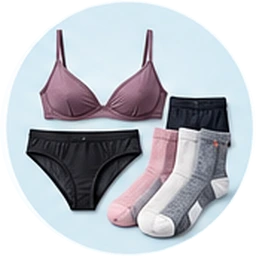
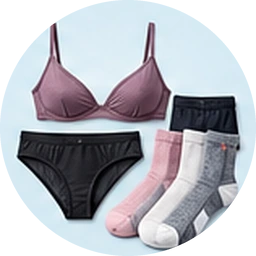
Add files via upload

diff --git a/index.html b/index.html
@@ -8,8 +8,8 @@
 <style>
 :root{--bg:#f7f7f4;--cd:#fff;--tx:#1f3354;--mu:#66738a;--ln:#dfe5ea;--circ:#dce9f1;--ac:#e8731c;--acb:#fdeee0;--ok:#1f8a4c;--wn:#b45309;--wnb:#fef3c7;--bad:#c62828;--pri:#1f3354;--on:#fff}
 @media(prefers-color-scheme:dark){:root{--bg:#0f1620;--cd:#162130;--tx:#eaf0f6;--mu:#9aa8ba;--ln:#263548;--circ:#1f3044;--ac:#f0954a;--acb:#3a2a1c;--ok:#4cc78b;--wn:#f2b24c;--wnb:#3a2f14;--bad:#ff7a73;--pri:#eaf0f6;--on:#0f1620}}
-*{box-sizing:border-box}body{margin:0;font:16px/1.4 -apple-system,system-ui,sans-serif;background:var(--bg);color:var(--tx);padding-top:env(safe-area-inset-top)}
-#app{max-width:640px;margin:auto;padding:12px 16px calc(88px + env(safe-area-inset-bottom))}#app.wide{max-width:960px}
+*{box-sizing:border-box}html,body{height:100%}body{height:100dvh;display:flex;flex-direction:column;overflow:hidden;overscroll-behavior:none}body{margin:0;font:16px/1.4 -apple-system,system-ui,sans-serif;background:var(--bg);color:var(--tx);padding-top:env(safe-area-inset-top)}
+#app{flex:1 1 auto;min-height:0;overflow-y:auto;-webkit-overflow-scrolling:touch;width:100%;max-width:640px;margin:0 auto;padding:12px 16px 24px}#app.wide{max-width:960px}
 h1{font-size:26px;margin:8px 0 14px;display:flex;justify-content:space-between;align-items:center;gap:8px;letter-spacing:-.01em}h1 span{display:flex;gap:8px}
 h3{font-size:12px;color:var(--mu);font-weight:600;margin:20px 0 6px;text-transform:uppercase;letter-spacing:.06em}
 .c{background:var(--cd);border:1px solid var(--ln);border-radius:12px;overflow:hidden}.r{display:flex;gap:10px;align-items:center;padding:12px;border-top:1px solid var(--ln);min-height:48px}.r:first-child{border-top:0}.r>div{flex:1;min-width:0}
@@ -25,7 +25,7 @@ button.l{border:0;background:none;color:var(--ac);padding:0 6px;min-height:36px}
 input,select,textarea{width:100%;padding:11px;border:1px solid var(--ln);border-radius:10px;background:var(--cd);margin:4px 0}textarea{min-height:120px}
 .bar{height:7px;background:var(--ln);border-radius:4px;overflow:hidden;margin:8px 0 4px}.bar i{display:block;height:100%;background:var(--pri)}
 .seg{display:flex;gap:6px;margin:8px 0}.seg button{flex:1}.seg .on{background:var(--acb);border-color:var(--ac);color:var(--ac);font-weight:600}
-.tabs{position:fixed;left:0;right:0;bottom:0;display:flex;background:var(--cd);border-top:1px solid var(--ln);padding-bottom:env(safe-area-inset-bottom)}.tabs a{flex:1;text-align:center;padding:13px 0;color:var(--mu);text-decoration:none;font-size:13px}.tabs a.on{color:var(--ac);font-weight:600}
+.tabs{flex:none;display:flex;background:var(--cd);border-top:1px solid var(--ln);padding-bottom:env(safe-area-inset-bottom)}.tabs a{flex:1;text-align:center;padding:13px 0;color:var(--mu);text-decoration:none;font-size:13px}.tabs a.on{color:var(--ac);font-weight:600}
 .warn{background:var(--wnb);color:var(--wn);padding:9px 12px;border-radius:10px;font-size:14px;margin-bottom:8px}.ft{font-size:12px;color:var(--mu);text-align:center;margin:18px 6px}
 .ck{width:26px;height:26px;border:2px solid var(--mu);border-radius:7px;flex:none;display:flex;align-items:center;justify-content:center}.ck.on{background:var(--ok);border-color:var(--ok);color:#fff}
 .empty{text-align:center;padding:28px 10px;color:var(--mu)}
@@ -37,9 +37,10 @@ input,select,textarea{width:100%;padding:11px;border:1px solid var(--ln);border-
 .back{display:inline-block;color:var(--ac);text-decoration:none;margin:4px 0}
 .sheet{background:#fff;color:#000;border:1px solid var(--ln);padding:22px;border-radius:6px;max-width:210mm;margin:12px auto}.sheet h2{margin:0;font-size:26px;letter-spacing:.04em}.sheet h4{margin:18px 0 6px;font-size:13px;letter-spacing:.12em;border-bottom:1.5px solid #000;padding-bottom:3px}
 .kr{display:flex;gap:10px;align-items:center;padding:5px 0;font-size:15px}.bx{width:15px;height:15px;border:1.6px solid #000;flex:none;display:grid;place-items:center;font-size:12px;line-height:1;font-weight:700}.tot{margin-top:18px;border-top:1.5px solid #000;padding-top:8px;font-size:14px;font-weight:600}.kr em{margin-left:auto;font-style:normal;font-size:11px;letter-spacing:.08em;border:1px solid #000;padding:1px 6px}.kr em.m{background:#000;color:#fff}.kr em.w{border-style:dashed}
-.circ{display:flex;align-items:center;justify-content:center}.em{font-size:clamp(30px,10vw,50px);line-height:1}.ci{display:flex;align-items:center;justify-content:center;background:var(--circ)}.ci .em{font-size:26px}.ci img{width:100%;height:100%;border-radius:50%}.circ{background:none}
+.circ{display:flex;align-items:center;justify-content:center}.em{font-size:clamp(30px,10vw,50px);line-height:1}.ci{display:flex;align-items:center;justify-content:center;background:#d6e9f4}.ci .em{font-size:26px}.ci img{width:100%;height:100%;border-radius:50%}.circ{background:#d6e9f4}
+.seg button .s{font-weight:400;white-space:nowrap}
 .pg{display:none}
-@media print{body{background:#fff;padding:0}.tabs,.noprint{display:none!important}#app{max-width:none;padding:0}.sheet{border:0;padding:0;margin:0;max-width:none}.cat{break-inside:avoid}@page{size:A4;margin:16mm}.pg{display:block;text-align:center;font-size:11px;margin-top:14px}}
+@media print{html,body{height:auto!important;overflow:visible!important;display:block!important}#app{overflow:visible!important}body{background:#fff;padding:0}.tabs,.noprint{display:none!important}#app{max-width:none;padding:0}.sheet{border:0;padding:0;margin:0;max-width:none}.cat{break-inside:avoid}@page{size:A4;margin:16mm}.pg{display:block;text-align:center;font-size:11px;margin-top:14px}}
 </style></head><body><div id="app"></div><nav class="tabs" id="tabs"></nav>
 <script>
 const $=s=>document.querySelector(s),uid=()=>Math.random().toString(36).slice(2,9),now=()=>new Date().toISOString();
@@ -81,7 +82,7 @@ let S=Store.load();const save=()=>Store.save(S);
 const nm=i=>((i.brand?i.brand+' ':'')+i.model).trim();
 
 /* ---------- icons: illustrated images in /icons ---------- */
-const HAS={m:['activewear', 'footwear', 'hats-and-accessories', 'health-and-meds', 'jackets-and-coats', 'knitwear', 'nightwear', 'smart-and-evening', 'swimwear-and-beachwear', 'toiletries', 'tops', 'trousers-and-shorts', 'underwear-and-socks'],f:['activewear', 'dresses-and-skirts', 'footwear', 'hats-and-accessories', 'health-and-meds', 'jackets-and-coats', 'knitwear', 'nightwear', 'smart-and-evening', 'swimwear-and-beachwear', 'toiletries', 'tops', 'underwear-and-socks']};
+const HAS={m:['activewear', 'bags', 'footwear', 'hats-and-accessories', 'health-and-meds', 'jackets-and-coats', 'knitwear', 'nightwear', 'smart-and-evening', 'swimwear-and-beachwear', 'toiletries', 'tops', 'trousers-and-shorts', 'underwear-and-socks'],f:['activewear', 'bags', 'dresses-and-skirts', 'footwear', 'hats-and-accessories', 'health-and-meds', 'jackets-and-coats', 'knitwear', 'nightwear', 'smart-and-evening', 'swimwear-and-beachwear', 'toiletries', 'tops', 'underwear-and-socks']};
 const svg=c=>{const k=slug(c),st=S.settings.style=='f'?'f':'m',src=HAS[st].includes(k)?st+'-'+k:k=='trousers-and-shorts'?'m-'+k:null;return src?`<img src="icons/${src}.webp" alt="" decoding="async">`:`<span class="em">${EM[c]}</span>`};
 const vis=c=>!(c=='Dresses & Skirts'&&S.settings.style!='f'&&!cnt(S.inventory.filter(i=>i.category==c)));
 
@@ -94,7 +95,7 @@ const BN={d:'Hold bag',p:'Carry on',w:'Small bag'};
 const asg=t=>{t.as=t.as||{};t.pk=t.pk||[];for(const k of Object.keys(t.as)){let v=t.as[k];const g=S.inventory.find(x=>x.id==k);if(!g){delete t.as[k];continue}
 if(typeof v=='string'){if(!'dpw'.includes(v)||!v){delete t.as[k];continue}t.as[k]={[v]:qn(g)};t.pk=t.pk.map(x=>x==k?k+':'+v:x);v=t.as[k]}
 if(typeof v!='object'||!v){delete t.as[k];continue}for(const c of ['d','p','w'])if(!(v[c]>0))delete v[c];if(!Object.keys(v).length)delete t.as[k]}return t.as};
-const qn=g=>Math.max(1,parseInt(g.qty)||1),cnt=l=>l.reduce((s,g)=>s+qn(g),0),iw=g=>kg(g.g)*qn(g);const bagRows=(t,c)=>S.inventory.filter(g=>((asg(t)[g.id]||{})[c]||0)>0).map(g=>({g,n:t.as[g.id][c]})),bcnt=r=>r.reduce((s,x)=>s+x.n,0),wt=(t,c)=>bagRows(t,c).reduce((s,x)=>s+kg(x.g.g)*x.n,0),left=(t,g)=>qn(g)-Object.values((asg(t)[g.id])||{}).reduce((a,b)=>a+b,0),re=()=>{const y=scrollY;view();scrollTo(0,y)};
+const qn=g=>Math.max(1,parseInt(g.qty)||1),cnt=l=>l.reduce((s,g)=>s+qn(g),0),iw=g=>kg(g.g)*qn(g);const bagRows=(t,c)=>S.inventory.filter(g=>((asg(t)[g.id]||{})[c]||0)>0).map(g=>({g,n:t.as[g.id][c]})),bcnt=r=>r.reduce((s,x)=>s+x.n,0),wt=(t,c)=>bagRows(t,c).reduce((s,x)=>s+kg(x.g.g)*x.n,0),left=(t,g)=>qn(g)-Object.values((asg(t)[g.id])||{}).reduce((a,b)=>a+b,0),re=()=>{const y=$('#app').scrollTop;view();$('#app').scrollTop=y};
 let bag='d',cur=null,tm='assign',IMP=null;
 const fd=(a,b)=>{if(!a)return'';const f=(d,y)=>new Date(d+'T12:00').toLocaleDateString('en-GB',{day:'numeric',month:'long',year:y?'numeric':undefined}),A=new Date(a+'T12:00'),B=b&&new Date(b+'T12:00');
 if(!b||b==a)return f(a,1);if(A.getMonth()==B.getMonth()&&A.getFullYear()==B.getFullYear())return A.getDate()+'–'+f(b,1);return f(a)+' – '+f(b,1)};
@@ -109,7 +110,7 @@ $('#app').className=p=='wall'?'wide':'';
 let html='';
 if(p=='wall')html=wallV();else if(p=='cat')html=catV(h[1]);else if(p=='item')html=itemV(h[1]);else if(p=='add')html=itemV(null,h[1]);else if(p=='settings')html=setV();else if(p=='import'){IMP=null;html=impV()}
 else if(p=='trips')html=tripsV();else if(p=='new')html=newV();else if(p=='edit')html=newV(T(h[1]));else if(p=='trip'){cur=h[1];html=tripV()}else if(p=='kit'){cur=h[1];html=kitV()}else html=wallV();
-$('#app').innerHTML=html;window.scrollTo(0,0)}
+$('#app').innerHTML=html;$('#app').scrollTop=0}
 function terms(){$('#tabs').innerHTML='';$('#app').innerHTML=`<h1 style="justify-content:center;margin-top:24px">Before you start</h1><div class="c">${[['Suggestions, not instructions','Packing lists, weights and allowance totals are suggestions to help you plan. They can be incomplete or wrong.'],['Not travel advice','Do not rely on this app for travel, customs, health or safety decisions.'],['Check the real rules','Always confirm baggage allowances, size limits, liquids rules and restricted items with your airline, airport and destination.'],['The decisions are yours','You are responsible for what you pack and carry. We take no liability for fees, delays, loss or damage arising from using the app.']].map(x=>`<div class="r"><div><b>${x[0]}</b><div class="s" style="font-size:14px">${x[1]}</div></div></div>`).join('')}</div>
 <label class="r c" style="margin-top:12px;gap:12px"><input type="checkbox" style="width:22px;margin:0" onchange="$('#go').disabled=!this.checked"><span>I've read and understand this, and I accept the full terms.</span></label>
 <p class="s">We save the date and version you accepted on this device.</p><button class="p big" id="go" disabled data-a="accept">Continue</button>`}
@@ -194,7 +195,7 @@ cv.toBlob(b=>{const f=new File([b],'packing-list.png',{type:'image/png'});if(nav
 
 /* ---------- actions ---------- */
 const A={
-accept(){S.settings.terms=TERMS;S.settings.termsDate=now();save();location.hash='/wall';view()},go(d){go(d.h)},back(){history.back()},style(d){S.settings.style=d.s;save();view()},preset(d){const t=T(cur),p=PRE[+d.k];t.maxKg=p[1];t.maxKgP=p[2];t.maxKgW=p[3];save();re()},tmode(d){tm=d.m;const y=scrollY;view();scrollTo(0,y)},print(){window.print()},img(){kitImg()},
+accept(){S.settings.terms=TERMS;S.settings.termsDate=now();save();location.hash='/wall';view()},go(d){go(d.h)},back(){history.back()},style(d){S.settings.style=d.s;save();re()},preset(d){const t=T(cur),p=PRE[+d.k];t.maxKg=p[1];t.maxKgP=p[2];t.maxKgW=p[3];save();re()},tmode(d){tm=d.m;const y=$('#app').scrollTop;view();$('#app').scrollTop=y},print(){window.print()},img(){kitImg()},
 saveg(d){const m=$('#m').value.trim();if(!m){alert('Model is required');return}const v={brand:$('#b').value.trim(),model:m,category:$('#c').value,g:+$('#g').value||null,qty:Math.max(1,parseInt($('#q').value)||1),updated_at:now()};
 if(d.id){Object.assign(S.inventory.find(x=>x.id==d.id),v)}else S.inventory.push({id:uid(),created_at:now(),...v});save();go('/cat/'+slug(v.category))},
 wipe(){if(!S.inventory.length){alert('Your Wardrobe is already empty');return}if(confirm('Delete all '+S.inventory.length+' items? This can\'t be undone unless you have a backup. Trips are kept.')){S.inventory=[];save();alert('All items deleted. You can now import a new CSV.');view()}},
@@ -204,7 +205,7 @@ doimp(){if(IMP.replace&&!confirm('This deletes your '+S.inventory.length+' curre
 mk(d){const n=$('#n').value.trim();if(!n){alert('Give the trip a name');return}const t=d.id?T(d.id):{id:uid(),as:{},pk:[],created_at:now()};Object.assign(t,{name:n,dest:$('#dst').value.trim(),env:$('#env').value,start:$('#sd').value,end:$('#ed').value,updated_at:now()});if(!d.id)S.trips.unshift(t);save();go('/trip/'+t.id)},
 as(d){const t=T(cur),m=asg(t),g=S.inventory.find(x=>x.id==d.id);if(!g)return;const had=m[d.id]&&m[d.id][d.b];t.pk=t.pk.filter(x=>x.split(':')[0]!=d.id);if(had)delete m[d.id];else m[d.id]={[d.b]:1};save();re()},
 adj(d){const t=T(cur),m=asg(t),g=S.inventory.find(x=>x.id==d.id);if(!g)return;const v=m[d.id]=m[d.id]||{},used=Object.values(v).reduce((a,b)=>a+b,0),n=v[d.b]||0,dl=+d.dl;if(dl>0&&used>=qn(g))return;const nn=Math.max(0,n+dl);if(nn)v[d.b]=nn;else{delete v[d.b];t.pk=t.pk.filter(x=>x!=d.id+':'+d.b)}if(!Object.keys(v).length)delete m[d.id];save();re()},
-tk(d){const t=T(cur),i=t.pk.indexOf(d.id);i<0?t.pk.push(d.id):t.pk.splice(i,1);save();const y=scrollY;view();scrollTo(0,y)},
+tk(d){const t=T(cur),i=t.pk.indexOf(d.id);i<0?t.pk.push(d.id):t.pk.splice(i,1);save();const y=$('#app').scrollTop;view();$('#app').scrollTop=y},
 delt(d){if(confirm('Delete this trip?')){S.trips=S.trips.filter(t=>t.id!=d.id);save();go('/trips')}},
 bk(){const j=JSON.stringify(S);(navigator.clipboard?navigator.clipboard.writeText(j):Promise.reject()).then(()=>alert('Backup copied')).catch(()=>{$('#rs').value=j;$('#rs').select();alert('Copy the text in the box')})},
 rest(){doRestore($('#rs').value)},
@@ -217,7 +218,7 @@ document.addEventListener('change',e=>{const t=e.target;if(t.id=='rf'&&t.files[0
 else if(t.id=='f'&&t.files[0]){t.files[0].text().then(x=>{startImp(x);$('#app').innerHTML=impR()})}
 else if(t.id=='rp'){IMP.replace=t.checked}
 else if(t.dataset.lim){const tr=T(cur);if(tr){tr[{d:'maxKg',p:'maxKgP',w:'maxKgW'}[t.dataset.lim]]=+t.value;save();re()}}
-else if(t.dataset.ch!==undefined){IMP.rows[+t.dataset.ch].cat=t.value||null;const y=scrollY;$('#app').innerHTML=impR();scrollTo(0,y)}});
+else if(t.dataset.ch!==undefined){IMP.rows[+t.dataset.ch].cat=t.value||null;const y=$('#app').scrollTop;$('#app').innerHTML=impR();$('#app').scrollTop=y}});
 addEventListener('hashchange',view);view();
 if('serviceWorker'in navigator)addEventListener('load',()=>navigator.serviceWorker.register('sw.js').catch(()=>{}));
 </script></body></html>

diff --git a/sw.js b/sw.js
@@ -1,5 +1,5 @@
-const CACHE='carryon-shell-v3';
-const IMGS=['trip-hold','trip-carryon','trip-small',...['activewear', 'footwear', 'hats-and-accessories', 'health-and-meds', 'jackets-and-coats', 'knitwear', 'nightwear', 'smart-and-evening', 'swimwear-and-beachwear', 'toiletries', 'tops', 'trousers-and-shorts', 'underwear-and-socks'].map(x=>'m-'+x),...['activewear', 'dresses-and-skirts', 'footwear', 'hats-and-accessories', 'health-and-meds', 'jackets-and-coats', 'knitwear', 'nightwear', 'smart-and-evening', 'swimwear-and-beachwear', 'toiletries', 'tops', 'underwear-and-socks'].map(x=>'f-'+x)];
+const CACHE='carryon-shell-v5';
+const IMGS=['trip-hold','trip-carryon','trip-small',...['activewear', 'bags', 'footwear', 'hats-and-accessories', 'health-and-meds', 'jackets-and-coats', 'knitwear', 'nightwear', 'smart-and-evening', 'swimwear-and-beachwear', 'toiletries', 'tops', 'trousers-and-shorts', 'underwear-and-socks'].map(x=>'m-'+x),...['activewear', 'bags', 'dresses-and-skirts', 'footwear', 'hats-and-accessories', 'health-and-meds', 'jackets-and-coats', 'knitwear', 'nightwear', 'smart-and-evening', 'swimwear-and-beachwear', 'toiletries', 'tops', 'underwear-and-socks'].map(x=>'f-'+x)];
 const SHELL=['./','index.html','manifest.webmanifest','icon-192.png','icon-512.png','apple-touch-icon.PNG',...IMGS.map(c=>'icons/'+c+'.webp')];
 const SHELL=['./','index.html','manifest.webmanifest','icon-192.png','icon-512.png','apple-touch-icon.PNG',...CATS.map(c=>'icons/'+c+'.webp'),...TRIPIMG.map(c=>'icons/'+c+'.webp')];
 self.addEventListener('install',e=>{e.waitUntil(caches.open(CACHE).then(c=>Promise.all(SHELL.map(u=>c.add(u).catch(()=>{})))).then(()=>self.skipWaiting()))});
